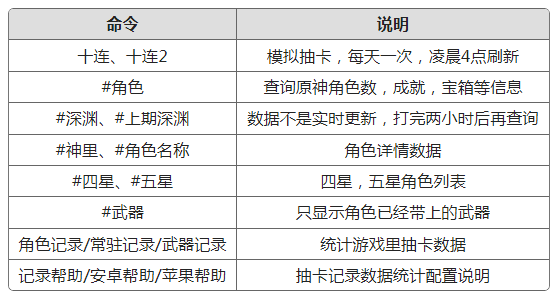
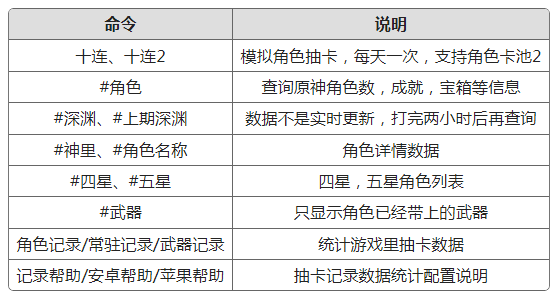
更新角色卡池2

diff --git a/config/genshin/gacha.js b/config/genshin/gacha.js
@@ -6,6 +6,7 @@ let gachaConfig = {
       up4: ["托马", "早柚", "迪奥娜"],
       //up的五星角色
       up5: ["胡桃"],
+      up5_2: ["胡桃"],
       endTime: "2021-11-17 04:00:00",
     },
     {
@@ -13,12 +14,14 @@ let gachaConfig = {
       up4: ["班尼特", "九条裟罗", "诺艾尔"],
       //up的五星角色
       up5: ["阿贝多"],
+      up5_2: ["优菈"],
       endTime: "2021-12-8 04:00:00",
     },
     {
       //up的四星角色
       up4: ["五郎", "芭芭拉", "菲谢尔"],
       //up的五星角色
+      up5: ["荒泷一斗"],
       up5: ["荒泷一斗"],
       endTime: "2021-12-29 04:00:00",
     },

diff --git a/lib/app/gacha.js b/lib/app/gacha.js
@@ -74,6 +74,11 @@ async function gacha(e) {
   let name = e.sender.card;
   let group_id = e.group_id;
 
+  let upType = 1;
+  if (e.msg.indexOf("2") != -1 ) {
+    upType = 2;//角色up卡池2
+  }
+
   //每日抽卡次数
   const dayNum = e.groupConfig.gachaDayNum || 1;
 
@@ -137,7 +142,11 @@ async function gacha(e) {
   for (let val of gachaConfig.pool) {
     if (new Date().getTime() <= new Date(val.endTime).getTime()) {
       up4 = val.up4;
-      up5 = val.up5;
+      if(upType==1){
+        up5 = val.up5;
+      }else{
+        up5 = val.up5_2;
+      } 
       break;
     }
   }

diff --git a/resources/help/help.html b/resources/help/help.html
@@ -64,7 +64,7 @@
         </tr>
         <tr>
           <td>十连、十连2</td>
-          <td>模拟抽卡，每天一次，凌晨4点刷新</td>
+          <td>模拟角色抽卡，每天一次，支持角色卡池2</td>
         </tr>
         <tr>
           <td>#角色</td>

diff --git a/resources/readme/命令说明.md b/resources/readme/命令说明.md
@@ -1,8 +1,8 @@
 # 命令说明
 
 * 群昵称加上游戏的uid，输入命令即可查询，
-* 原神信息查询默认限制，每个qq每天10次，每天5个id，凌晨4点更新，可以自行配置
-* `#十连` 每天一次，防止刷屏
 * 查询角色详情支持别名，如：`#刻师傅`，`#雷神`等等
+* 原神信息查询默认限制，每个qq每天20次，5个id，凌晨4点更新，可以自行配置
+* `#十连` 每天一次，防止刷屏
 * `#武器` 只显示角色已经带上的
 * 深渊数据不是马上更新，建议打完两小时后再查询

diff --git a/README.md b/README.md
@@ -42,7 +42,7 @@ node app
 ### #角色记录/#常驻记录/#武器记录
 ![角色记录](resources/readme/角色记录.jpg)
 
-### #十连
+### #十连、#十连2
 ![十连](resources/readme/十连.png)
 
 ## 致谢
